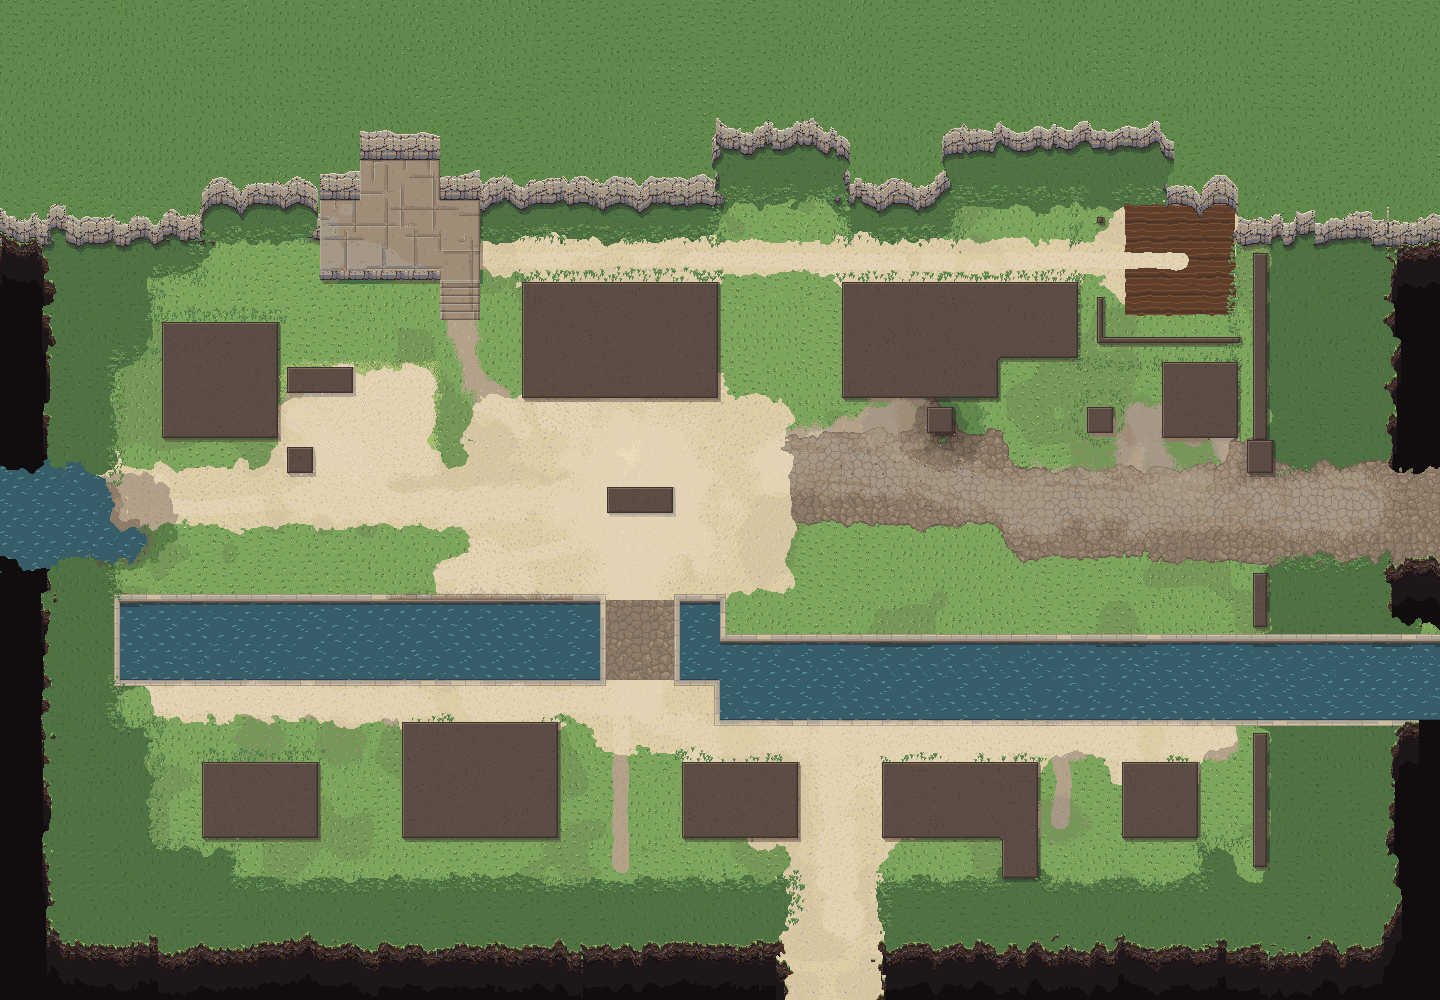
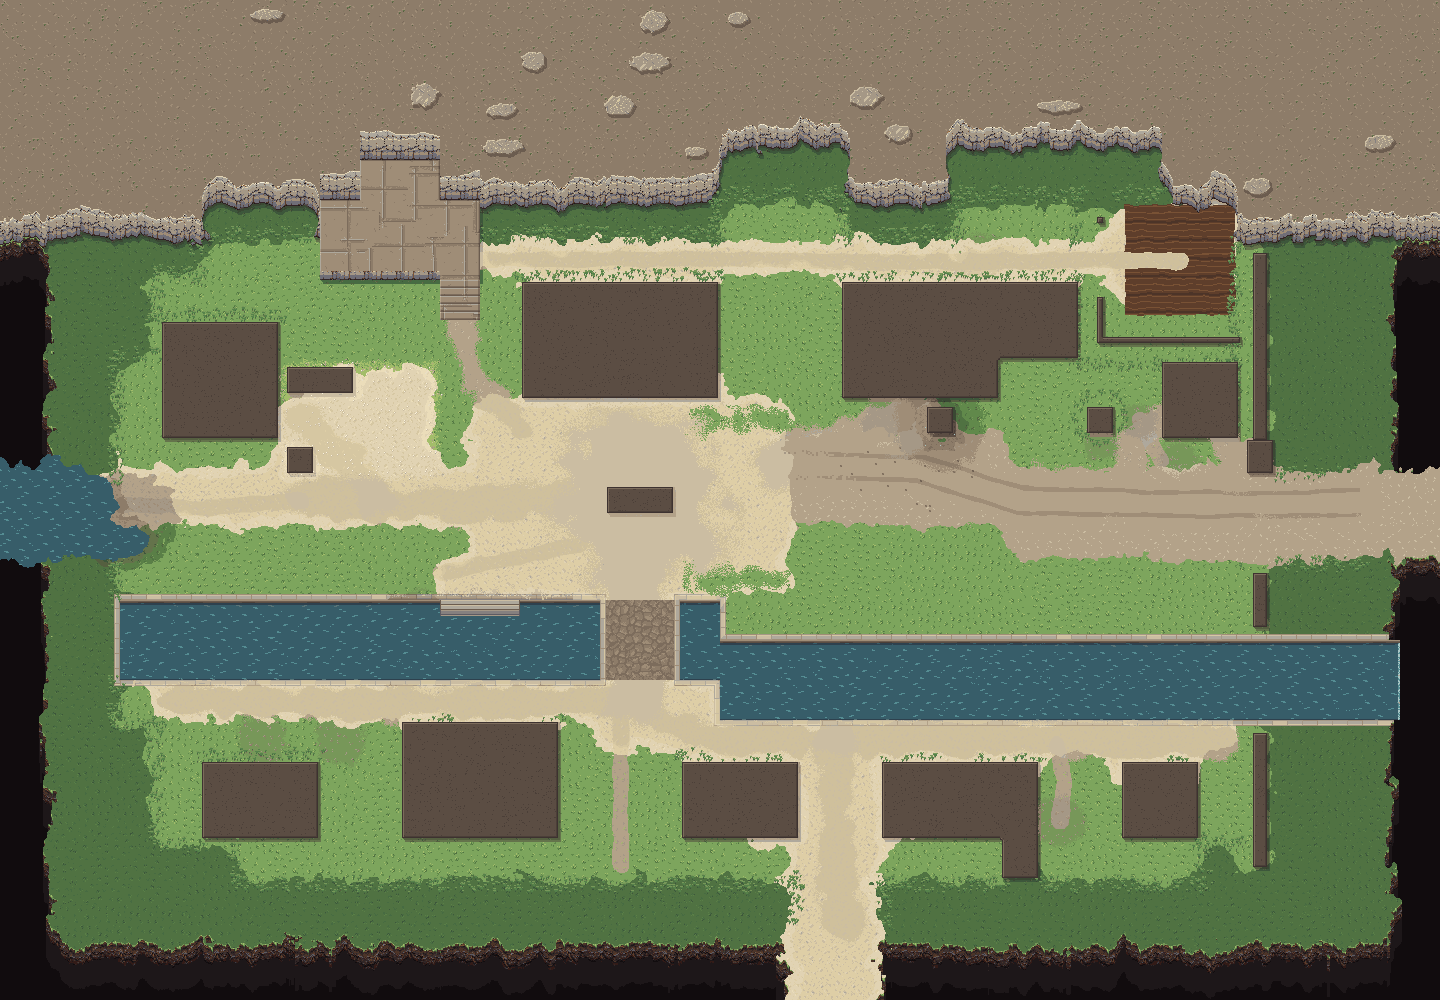
Rework Ba Dan's ground: a packed square, an earth cart road, the quarry hillside, small gate stubs, wash steps and the canal's fall
Claude-Session: https://claude.ai/code/session_01H8JDTPYztrZvUL5HBCK6eR

diff --git a/src/content/scenes/baDan.ground.ts b/src/content/scenes/baDan.ground.ts
@@ -25,16 +25,19 @@ import {
 /** The brief's desire lines (`docs/places/ba_dan_village.md`, "Daily life"), in cells (a cell's centre is +0.5). */
 export const BA_DAN_TRACKS: readonly GroundTrack[] = [
   // the carts from the quarry: the old paving under it, rutted and worn pale
+  // the stone carts' road in from the quarry: packed earth, two wheel ruts and a worn middle, narrowing through the gate
   {
     id: 'east_road',
     line: [
-      [32, 9.6],
-      [26, 9.6],
+      [32, 9.55],
+      [29.5, 9.6],
+      [27.5, 9.6],
       [23.5, 9.5],
       [21, 8.7],
       [17.5, 8.6],
     ],
     width: 2,
+    widths: [1.5, 1.4, 1.9, 2, 2, 1.8],
     wear: 3,
     ruts: true,
   },
@@ -169,7 +172,7 @@ export const BA_DAN_TRACKS: readonly GroundTrack[] = [
       [27, 8.5],
     ],
     width: 1,
-    wear: 2,
+    wear: 1,
   },
   {
     id: 'coast_sign',
@@ -218,20 +221,25 @@ export const BA_DAN_APRONS: readonly GroundApron[] = [
   { id: 'trough', anchor: 'trough', kind: 'wet', at: [21.5, 7.6], r: 1.2 },
   door('shop_door', 'bd02.shopfront', 20, 7, 1),
   door('mira_door', 'home.mira', 13, 7, 0.8),
-  door('hut_door', 'bd03.post', 27, 8, 1),
-  { id: 'shrine', anchor: 'shrine', kind: 'packed', at: [25.5, 8.15], r: 0.9 },
+  door('hut_door', 'bd03.post', 27, 8, 0.55),
+  { id: 'shrine', anchor: 'shrine', kind: 'packed', at: [25.5, 8.1], r: 0.5 },
   // the mason's yard: the one place pale chips lie
   { id: 'mason_yard', anchor: 'home.hesra', kind: 'chips', rect: [5, 6, 8, 8] },
   // the vegetable gardens: common strips, one per household, rows east-west
   { id: 'gardens', anchor: 'gardens', kind: 'tilled', rect: [26, 2, 28, 4] },
   // the wash steps: the kerb darker and damp at the water
   { id: 'wash_steps', anchor: 'wash_steps', kind: 'damp', rect: [8, 11, 11, 11] },
+  // grass surviving in the square's corners nobody walks, so the square reads as a place with edges
+  { id: 'square_ne', anchor: 'square', kind: 'sward', rect: [15, 7, 17, 7] },
+  { id: 'square_se', anchor: 'square', kind: 'sward', rect: [15, 11, 17, 11] },
+  // the wash steps: treads cut down the north bank into the canal
+  { id: 'wash_treads', anchor: 'wash_steps', kind: 'treads', rect: [9, 12, 10, 12] },
   // the ford: wet mud where the old road goes under
   { id: 'ford', anchor: 'ford', kind: 'mud', at: [1.2, 10], r: 1.4 },
   door('gao_back', 'home.gao', 22, 3),
   door('pella_door', 'home.pella', 9, 14),
   door('school_door', 'bd05.school', 6, 15),
-  door('dorin_door', 'home.dorin', 26, 7),
+  door('dorin_door', 'home.dorin', 26, 7, 0.5),
   door('hanru_door', 'home.hanru', 26, 15),
   door('amri_door', 'home.amri', 16, 15),
   door('leto_door', 'home.leto', 4, 15),
@@ -315,8 +323,21 @@ export const BA_DAN_GROUND_SPEC: GroundSpec = {
       terrain: 'D',
       calm: 0.36,
       grade: [0.98, 0.97, 0.95],
+      // packed darker where feet go, loose and pale at its fringes and against walls
+      wears: 'packs',
+      drifts: true,
     },
-    // the east road's old paving: the village's approved cobble, calmed and warmed toward limestone
+    // the east road: the stone carts' packed earth, calm, darker than the square's dust
+    {
+      id: 'road',
+      tile: { set: 'q_floor32b', key: 'LLLL' },
+      reads: 'ground',
+      terrain: 'D',
+      calm: 0.22,
+      grade: [0.86, 0.82, 0.76],
+      wears: 'packs',
+    },
+    // the bridge's paving, the only paving on the board: the village's approved cobble, calmed and warmed
     {
       id: 'cobble',
       tile: { set: 'gc32', key: 'c1111' },
@@ -334,14 +355,14 @@ export const BA_DAN_GROUND_SPEC: GroundSpec = {
       calm: 0.55,
       grade: [0.66, 0.72, 0.74],
     },
-    // the quarry hillside above the north rim
+    // the quarry hillside above the north rim: pale stone scree, darker and calmer than the lawn
     {
       id: 'hill',
-      tile: { set: 'gc32', key: 'c0000' },
+      tile: { set: 'q_floor32b', key: 'LLLL' },
       reads: 'face',
       terrain: 'G',
-      calm: 0.6,
-      grade: [0.8, 0.86, 0.84],
+      calm: 0.3,
+      grade: [0.63, 0.63, 0.61],
     },
     { id: 'water', tile: { set: 'canal32', key: 'c0000' }, reads: 'water', terrain: 'W' },
     // the tea terrace's flags
@@ -366,7 +387,7 @@ export const BA_DAN_GROUND_SPEC: GroundSpec = {
   chars: {
     ',': 'grass',
     '.': 'dust',
-    '=': 'cobble',
+    '=': 'road',
     T: 'shade',
     X: 'hill',
     W: 'water',
@@ -400,9 +421,10 @@ export const BA_DAN_GROUND_SPEC: GroundSpec = {
     },
   ],
   beyond: 'void',
-  ends: 'T',
+  // the tree line and the canal run one cell past the grid, then the rim falls into the void
+  ends: 'T~',
   margin: { left: 2, right: 2, top: 3, bottom: 2 },
-  hill: { class: 'hill', height: 24 },
+  hill: { class: 'hill', height: 24, outcrops: 12 },
   tracks: BA_DAN_TRACKS,
   aprons: BA_DAN_APRONS,
   growth: BA_DAN_GROWTH,
